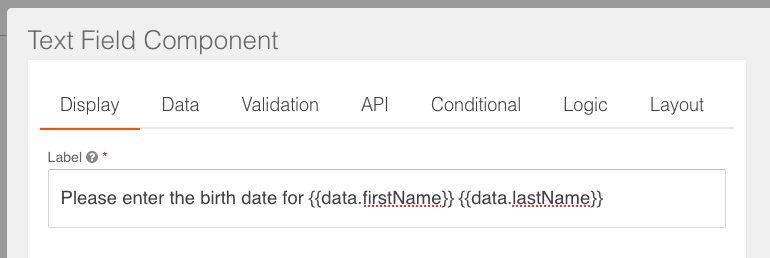
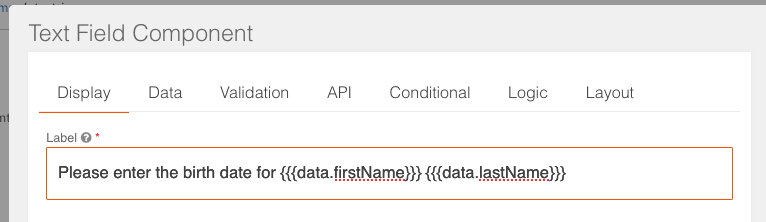
Updated after patch

diff --git a/using-valtimo/forms/interpolating-data-in-formio.md b/using-valtimo/forms/interpolating-data-in-formio.md
@@ -39,13 +39,13 @@ changed.
 
 Which results in the following field.
 
-![Exxample of label with interpolated data](img/interpolate-label-example.png)
+![Example of label with interpolated data](img/interpolate-label-example.png)
 
 ## Available syntaxes
 
 There are two different syntaxes for interpolating data in Form.io forms:
-- `{{ expression }}` for interpolation and escaping
-- `{ expression }` for only interpolation
+- `{{{ expression }}}` for interpolation and escaping
+- `{{ expression }}` for only interpolation
 
 Because the data that is interpolated in the form can come from the user, it is important to escape the data to prevent
 it from being interpreted as HTML. This can be done by using the `{{ expression }}` syntax. 
@@ -58,10 +58,24 @@ This would result in the following text being displayed in the form when using t
 
 ![Example of escaped data](img/example-escaped-data.png)
 
-When using the `{ expression }` syntax, the data is not escaped. This means that the data is interpreted as HTML as 
+When using the `{{ expression }}` syntax, the data is not escaped. This means that the data is interpreted as HTML as 
 shown below.
 
 ![Example of interpolated data](img/example-interpolated-data.png)
 
-It is recommended to always use the `{{ expression }}` syntax to prevent any issues with the data being displayed, 
+It is recommended to always use the `{{{ expression }}}` syntax to prevent any issues with the data being displayed, 
 unless it is intended to use HTML in the form and the data is trusted.
+
+Sometimes it is useful to use html as part of the expression itself. The example below can be used to display a list of
+names in a form. It uses an unordered list for clarity. The actual value is escaped using the `_.escape` function from
+lodash. The way the data need to be escaped can be different depending on the data that is used, and the context in which
+it is displayed. Please always think about the security implications when displaying data in a form.
+
+```html
+<p>
+  Names:
+  <ul>
+    {{ data.names ? ((data.names).map(name => '<li>'+_.escape(name)+'</li>').join('')) : '-' }}
+  </ul>
+</p>
+```
